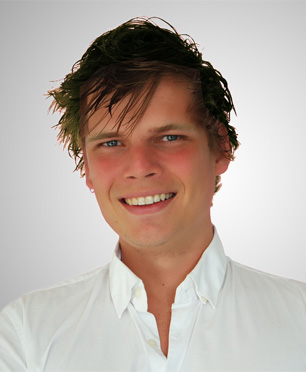
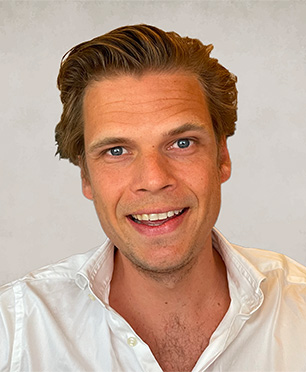
implemented CSP, added GitHub link, updated photo

diff --git a/index.html b/index.html
@@ -4,8 +4,9 @@
 		<meta name="msapplication-tap-highlight" content="no" />
         <meta http-equiv="X-UA-Compatible" content="IE=edge" />
         <meta name="viewport" content="user-scalable=no, initial-scale=1, maximum-scale=1, minimum-scale=1, width=device-width, height=device-height" />
-
-		<meta name="author" content="Bart Jansen" />
+        <meta http-equiv='Content-Security-Policy' content="default-src 'self'; script-src 'self' 'unsafe-inline'  maps.googleapis.com maps.google.com www.gstatic.com; img-src *.googleapis.com *.gstatic.com *.google.com *.googleusercontent.com data: *; frame-src *.google.com disqus.com; connect-src 'self' *.googleapis.com *.google.com *.gstatic.com data: blob:; font-src fonts.gstatic.com; style-src 'self' 'unsafe-inline' maps.googleapis.com maps.googleapis.com maps.google.com fonts.googleapis.com; ">        
+        
+        <meta name="author" content="Bart Jansen" />
 		<meta name="description" content="Bart Jansen offers front end web development solutions, app development skills (iOS and Android) and Electrical Engineering skills for your complex technical needs." />
 		<meta name="keywords" content="bart jansen,front end developer,web development,phonegap,electrical engineering,delft,tudelft,website,php" />
 		<meta name="robots" content="index,follow" />
@@ -35,21 +36,12 @@
 
         <link rel="stylesheet" type="text/css" href="css/reset.css" />
 		<link rel="stylesheet" type="text/css" href="libs/fancybox/jquery.fancybox.css" />
-		<link rel="stylesheet" type="text/css" href="//fonts.googleapis.com/css?family=Open+Sans:400,600,700,800"/>
+		<link rel="stylesheet" type="text/css" href="https://fonts.googleapis.com/css?family=Open+Sans:400,600,700,800"/>
 		<link rel="stylesheet" type="text/css" href="css/adipoli.css" />
 		<link rel="stylesheet" type="text/css" href="css/style.css" />
 
-		<script type="text/javascript" src="js/jquery-1.11.3.min.js"></script>
-		<script type="text/javascript" src="js/jquery.easytabs.min.js"></script>
-		<script type="text/javascript" src="libs/fancybox/jquery.fancybox.pack.js"></script>
-		<script type="text/javascript" src="js/respond.min.js"></script>
-		<script type="text/javascript" src="js/isotope.min.js"></script>
-		<script type="text/javascript" src="//maps.google.com/maps/api/js?key=AIzaSyBOc1UVCs4mkVXEuRWUMqKej4II0W18VxI"></script>
-		<script type="text/javascript" src="js/gmaps.min.js"></script>
-		<script type="text/javascript" src="js/jquery.adipoli.min.js"></script>
-		<script type="text/javascript" src="js/default.js"></script>
-
         <link rel="canonical" href="https://bart.je" />
+
         <script type="text/javascript">
           //force https
           var host = "bart.je";
@@ -71,7 +63,7 @@
                 	<li><a href="https://www.facebook.com/bartj" target="_blank" class="social-facebook"></a></li>
                     <li><a href="https://twitter.com/bartjansn" target="_blank" class="social-twitter"></a></li>
                     <li><a href="https://www.linkedin.com/in/bajansen" target="_blank" class="social-in"></a></li>
-                    <li><a href="http://gplus.to/bartjansen" target="_blank" class="social-googleplus"></a></li>
+                    <li><a href="https://github.com/bart-jansen" target="_blank" class="social-gh"></a></li>
                 </ul>
             </div>
 
@@ -599,15 +591,20 @@
             </div>
 
         </div>
-		<script>
-		  (function(i,s,o,g,r,a,m){i['GoogleAnalyticsObject']=r;i[r]=i[r]||function(){
-		  (i[r].q=i[r].q||[]).push(arguments)},i[r].l=1*new Date();a=s.createElement(o),
-		  m=s.getElementsByTagName(o)[0];a.async=1;a.src=g;m.parentNode.insertBefore(a,m)
-		  })(window,document,'script','//www.google-analytics.com/analytics.js','ga');
 
-		  ga('create', 'UA-40051139-1', 'rtjansen.nl');
-		  ga('send', 'pageview');
-		</script>
+
+
+		<script type="text/javascript" src="js/jquery-1.11.3.min.js"></script>
+		<script type="text/javascript" src="js/jquery.easytabs.min.js"></script>
+		<script type="text/javascript" src="libs/fancybox/jquery.fancybox.pack.js"></script>
+		<script type="text/javascript" src="js/respond.min.js"></script>
+		<script type="text/javascript" src="js/isotope.min.js"></script>
+        
+		<script type="text/javascript" src="https://maps.google.com/maps/api/js?key=AIzaSyBOc1UVCs4mkVXEuRWUMqKej4II0W18VxI&loading=async"></script>
+		<script type="text/javascript" src="js/gmaps.min.js"></script>
+		<script type="text/javascript" src="js/jquery.adipoli.min.js"></script>
+		<script type="text/javascript" src="js/default.js"></script>
+		
     </body>
 
 </html>

diff --git a/css/style.css b/css/style.css
@@ -129,11 +129,15 @@ div.top {
 	height:30px;
 	background:#222 url('../img/social_twitter.png') no-repeat 5px 5px;
 }
-.social-googleplus {
+.social-gh {
 	float:left;
 	width:30px;
 	height:30px;
-	background:#222 url('../img/social_googleplus.png') no-repeat 5px 5px;
+	background-image: url(../img/social_gh.png);
+    background-color: #222;
+    background-repeat: no-repeat;
+    background-size: 20px 20px;
+    background-position: 50% 50%;
 }
 .social-in {
 	float:left;
@@ -147,7 +151,7 @@ div.top {
 .social-twitter:hover {
 	background-color:#22b1e5;
 }
-.social-googleplus:hover {
+.social-gh:hover {
 	background-color:#d94a38;
 }
 .social-in:hover {
@@ -185,6 +189,7 @@ div.top {
 	background: url(../img/photo.jpg) no-repeat;
 	height: 186px;
 	width: 153px;
+	background-size: cover;
 }
 
 .about .photo-inner img {
@@ -1049,8 +1054,8 @@ div.footer .pdf_icon {
 		background-image: url('../img/hr/social_twitter.png');
 		background-size: 20px 20px;
 	}
-	.social-googleplus {
-		background-image: url('../img/hr/social_googleplus.png');
+	.social-gh {
+		background-image: url('../img/hr/social_gh.png');
 		background-size: 20px 20px;
 	}
 

diff --git a/js/default.js b/js/default.js
@@ -258,8 +258,8 @@ function socialHighlight() {
 			$('.social-twitter').animate({backgroundColor: '#222'}, speed);
 			$('.social-in').animate({backgroundColor: '#0075a1'}, speed, function() {
 				$('.social-in').animate({backgroundColor: '#222'}, speed);
-				$('.social-googleplus').animate({backgroundColor: '#d94a38'}, speed, function() {
-					$('.social-googleplus').animate({backgroundColor: '#222'}, speed);
+				$('.social-gh').animate({backgroundColor: '#d94a38'}, speed, function() {
+					$('.social-gh').animate({backgroundColor: '#222'}, speed);
 				});
 			});
 		});
